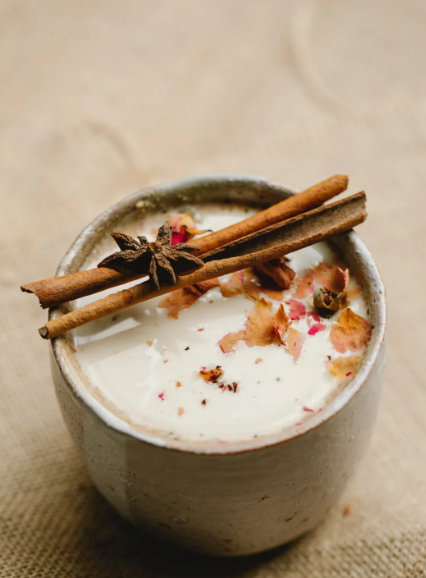
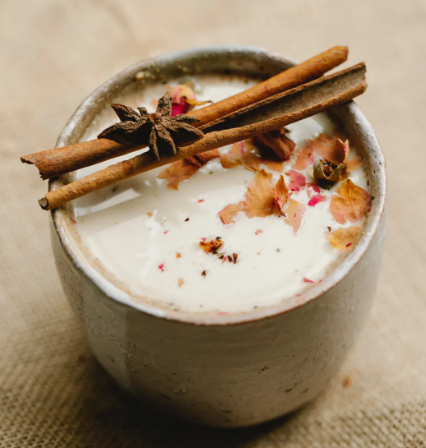
Insert Photos With Alt, Fix Position

diff --git a/style-css-h2.css b/style-css-h2.css
@@ -15,15 +15,16 @@ header {
     text-align: center;
     background-size: cover;
     border-radius: 10px;
-    background-size: cover;
+    
     
 }
 
 #Top {
 font-size: 50px;
-padding: 200px;
+padding: 202px;
 color: antiquewhite;
-margin-right: 25px;
+margin-right: 15px;
+width: 100%;
 }
 
 
@@ -74,7 +75,24 @@ footer {
 
   .menu {
     display: flex;
+   height: 700px;
+   width: 500px;
   }
-  .img {
-    
+img {
+width: 250px;
+height: 250px;
+margin-left: 150px;
+  }
+
+.lii {
+border: 10px, #333;
+width: 250px;
+flood-color: aqua;
+
+  }
+  ul {
+    font-size: 35px;
+    font-family: monospace;
+    color: rgb(65, 46, 46);
+    font-weight: 200;
   }

diff --git a/Sarah Html 2.html b/Sarah Html 2.html
@@ -30,17 +30,18 @@
     </nav>
     <!-- List Of Menu -->
     <div class="menu">
-        <div class="img">
-            <img src="tot.PNG" alt="Cup Of Tea"/>
-        </div>
-        <div>
+        
+        <div name="lii">
             
-                <ul>
+                <ul style="margin: 50px; width: 200px;">
                     <li>Tea Chainise</li>
                     <li>Hindi Chaii</li>
                     <li>Tea ....</li>
                 </ul>
             
+        </div>
+        <div class="img">
+            <img src="tot.PNG" alt="Cup Of Tea" style="border-radius: 50%;"/>
         </div>
     </div>
     <footer>
